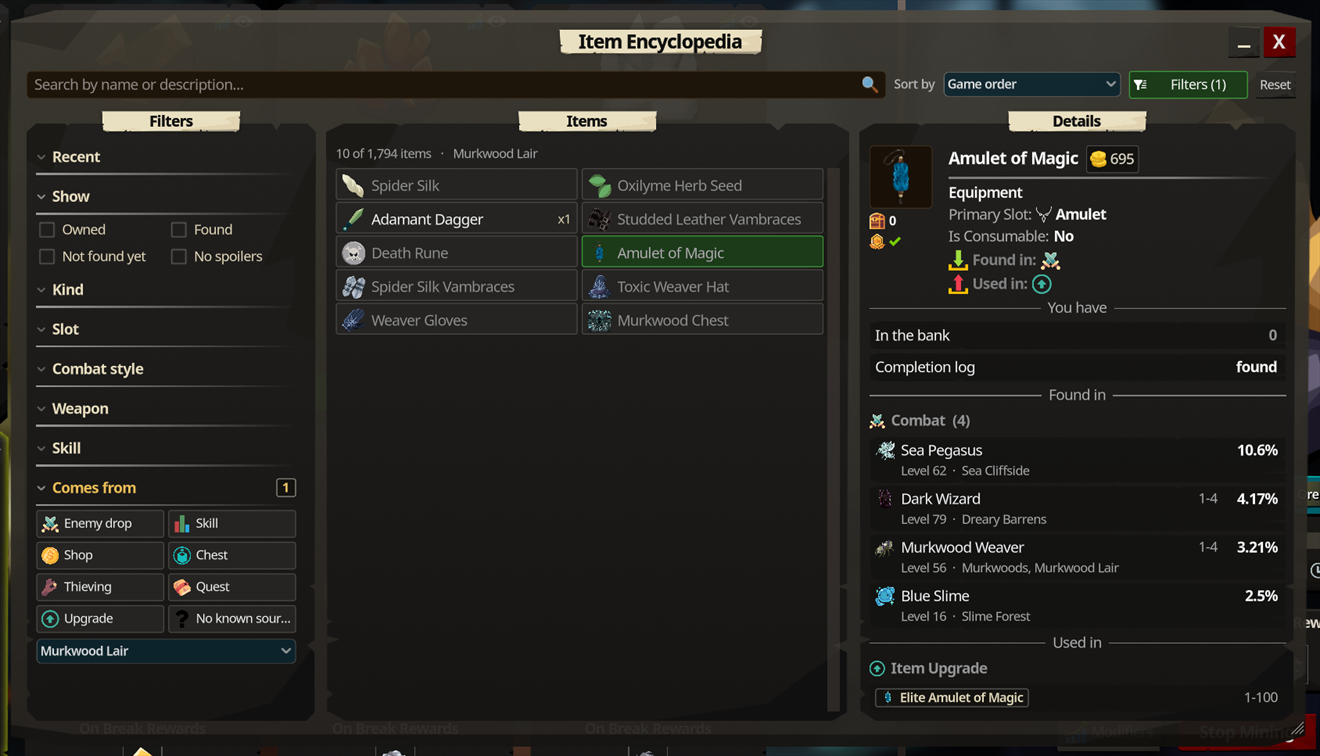
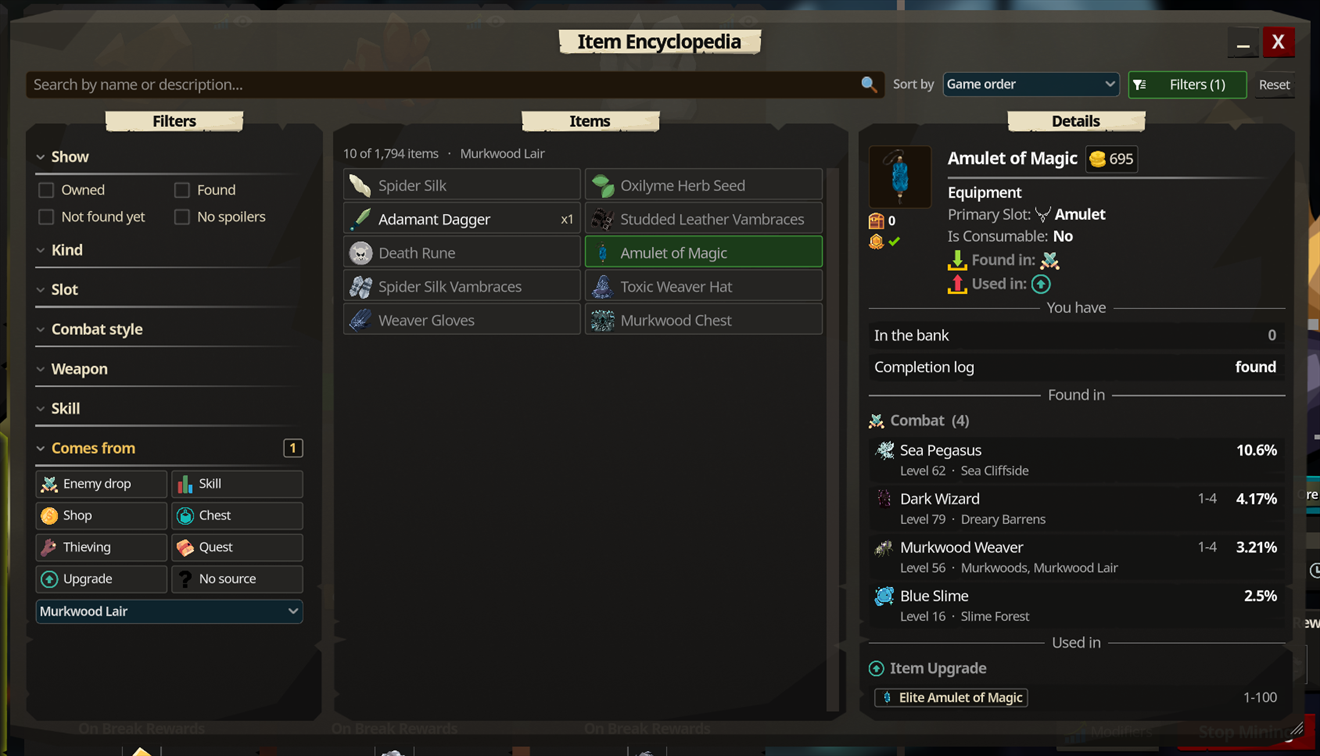
Item Encyclopedia: the "Comes from" choices fit their buttons
"No known source" was cut off to "No known sour...". It is "No source" now,
with the longer wording in its tooltip, and the filters are 8 px wider, so the
longest name the game brings along ("Thrown Hammer") fits too. Seen in the
game at the window's smallest size (60%), at 100% and at the largest that fits
this screen (140%): every choice of "Comes from" and of "Weapon" is whole.

The two pictures of the guide that show the filters are taken again.

Combat Simulator, whose window shares GameWindow, was opened after the title
bar got its explicit 4 px spacing: title centred, X in its corner, as on
docs/img/combat-simulator.png. Nothing to change there.

diff --git a/mods/ItemEncyclopedia/Catalog.cs b/mods/ItemEncyclopedia/Catalog.cs
@@ -478,7 +478,7 @@ sealed class Catalog
         new("thieving", "Thieving", null, "Stolen with Thieving"),
         new("quest", "Quest", null, "The reward of a quest"),
         new("upgrade", "Upgrade", null, "Made by upgrading another item"),
-        new("none", "No known source", null, "Nothing in the game's data gives this item"),
+        new("none", "No source", null, "Nothing in the game's data gives this item"),
     };
 
     // The game's own pictures for them, by their names in its Icons folder.

diff --git a/mods/ItemEncyclopedia/EncyclopediaView.cs b/mods/ItemEncyclopedia/EncyclopediaView.cs
@@ -59,7 +59,7 @@ sealed class EncyclopediaView
     // requirement reads exactly as in the game's tooltips.
     const string ItemPanelScene = "res://Entities/Bank/item_info_panel.tscn";
     const int Rows = 16, GroupLines = 30;
-    const float FiltersWidth = 292, DetailsWidth = 440, Width = 1280, Height = 620;
+    const float FiltersWidth = 300, DetailsWidth = 440, Width = 1280, Height = 620;
 
     sealed class Row
     {

diff --git a/mods/ItemEncyclopedia/README.md b/mods/ItemEncyclopedia/README.md
@@ -77,7 +77,7 @@ its choices are ticked.
 | **Combat style** | Melee, Ranged or Magic: the fighter it is for. |
 | **Weapon** | The kind of weapon: Bow, Sword, Staff, Crossbow, Dagger and the rest. |
 | **Skill** | The skills as the game's own "Found in" and "Used in" icons have them, Combat, Shop and Quests among them. *Gives it*, *Uses it* and *Tools* say which side you mean; *Any* is all three. |
-| **Comes from** | Enemy drop, Skill, Shop, Chest, Thieving, Quest, Upgrade, or No known source. Under them, one area or dungeon: only what its enemies drop or it gives as its reward. |
+| **Comes from** | Enemy drop, Skill, Shop, Chest, Thieving, Quest, Upgrade, or No source (nothing in the game's data gives it). Under them, one area or dungeon: only what its enemies drop or it gives as its reward. |
 
 Inside a group, ticking two choices means either of them. Across groups, an item has to fit all of them.
 
